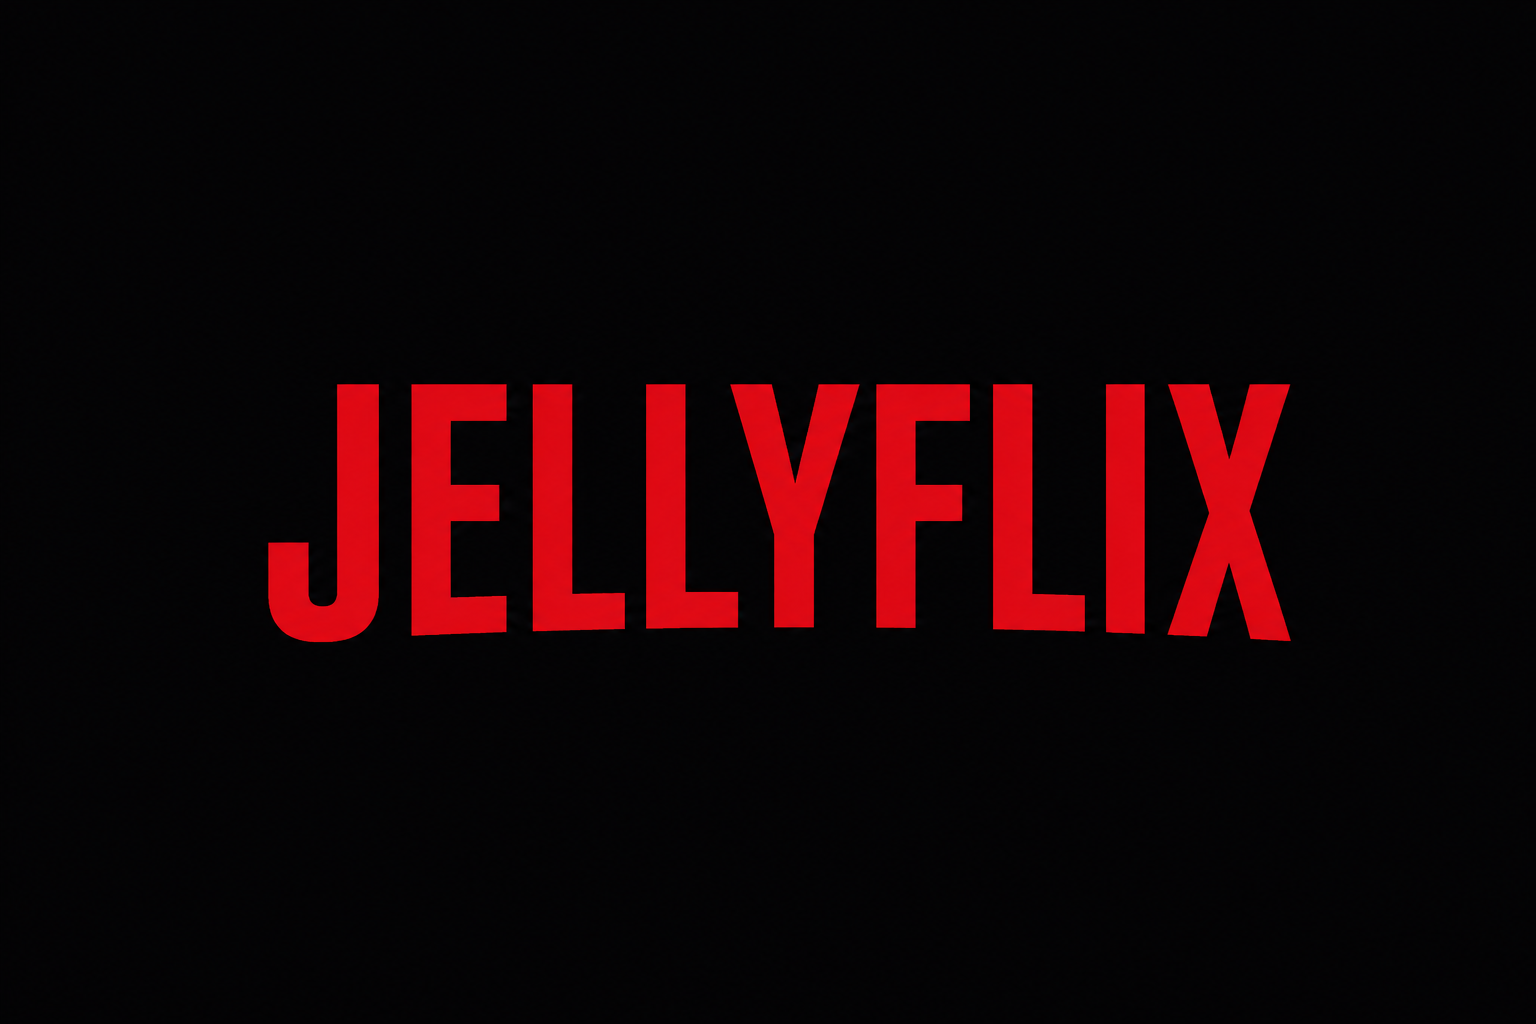
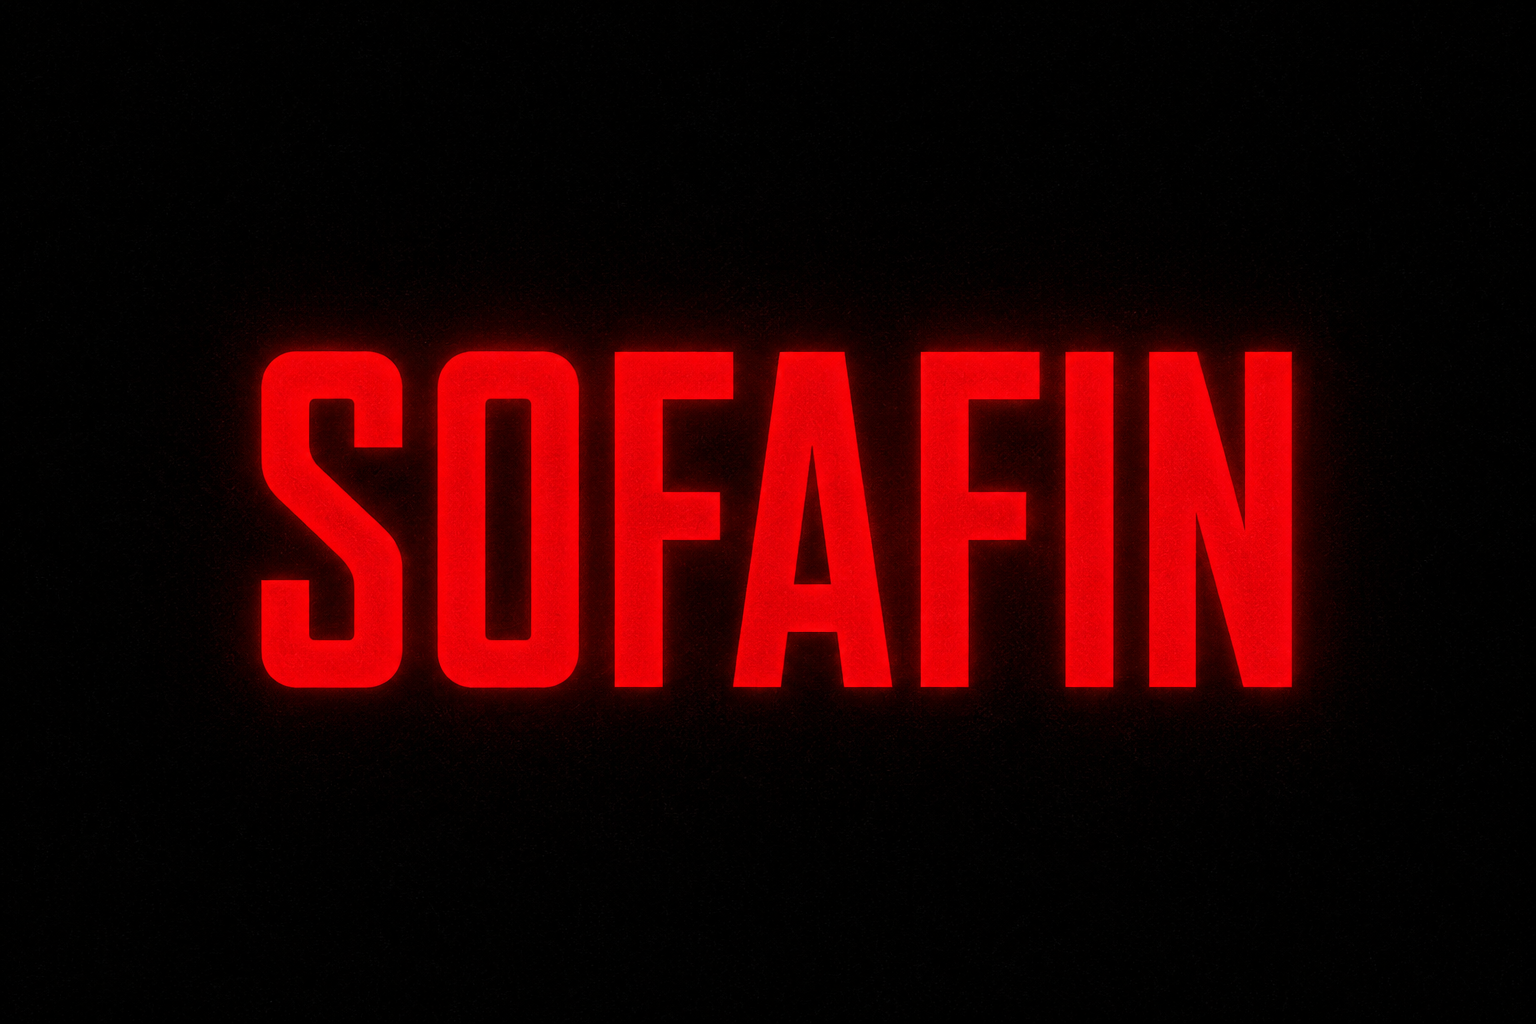
Icône Sofafin, et une vitrine pour le dépôt
L'ancienne icône composait « JELLYFLIX » dans le rouge, le lettrage condensé et
le fond noir de Netflix : au-delà du nom, c'était l'identité visuelle elle-même
qui était reprise, ce que vise la règle 4.1 sur les imitations.

La nouvelle garde le parti pris — le nom en grand, rouge sur noir, halo léger
et grain — mais avec des lettres géométriques et posées à plat, là où la marque
imitée arque les siennes. Catalogue régénéré par `Tools/make_icons.py` : pile de
calques pour la parallaxe au focus, et les deux images de l'étagère du haut.

Le README montre enfin de quoi il parle : l'icône, et une capture de l'accueil
prise sur simulateur — billboard, métadonnées, actions et reprises de lecture.

Changed region(s): [[0.1562, 0.3125, 0.875, 0.6875]]

diff --git a/README.md b/README.md
@@ -1,3 +1,7 @@
+<div align="center">
+
+<img src="Design/github/icon.png" alt="Sofafin" width="420">
+
 # Sofafin
 
 **Un client Jellyfin natif pour Apple TV.** Écrit en SwiftUI, bâti sur AVKit, pensé
@@ -6,6 +10,10 @@ pour être regardé depuis un canapé plutôt qu'inspecté de près.
 [![Plateforme](https://img.shields.io/badge/plateforme-tvOS%2026%2B-black)](https://developer.apple.com/tvos/)
 [![Swift](https://img.shields.io/badge/Swift-6.0-orange)](https://swift.org)
 [![Licence](https://img.shields.io/badge/licence-MIT-blue)](LICENSE)
+
+<img src="Design/github/screenshot-accueil.png" alt="L'accueil de Sofafin" width="100%">
+
+</div>
 
 ---
 
